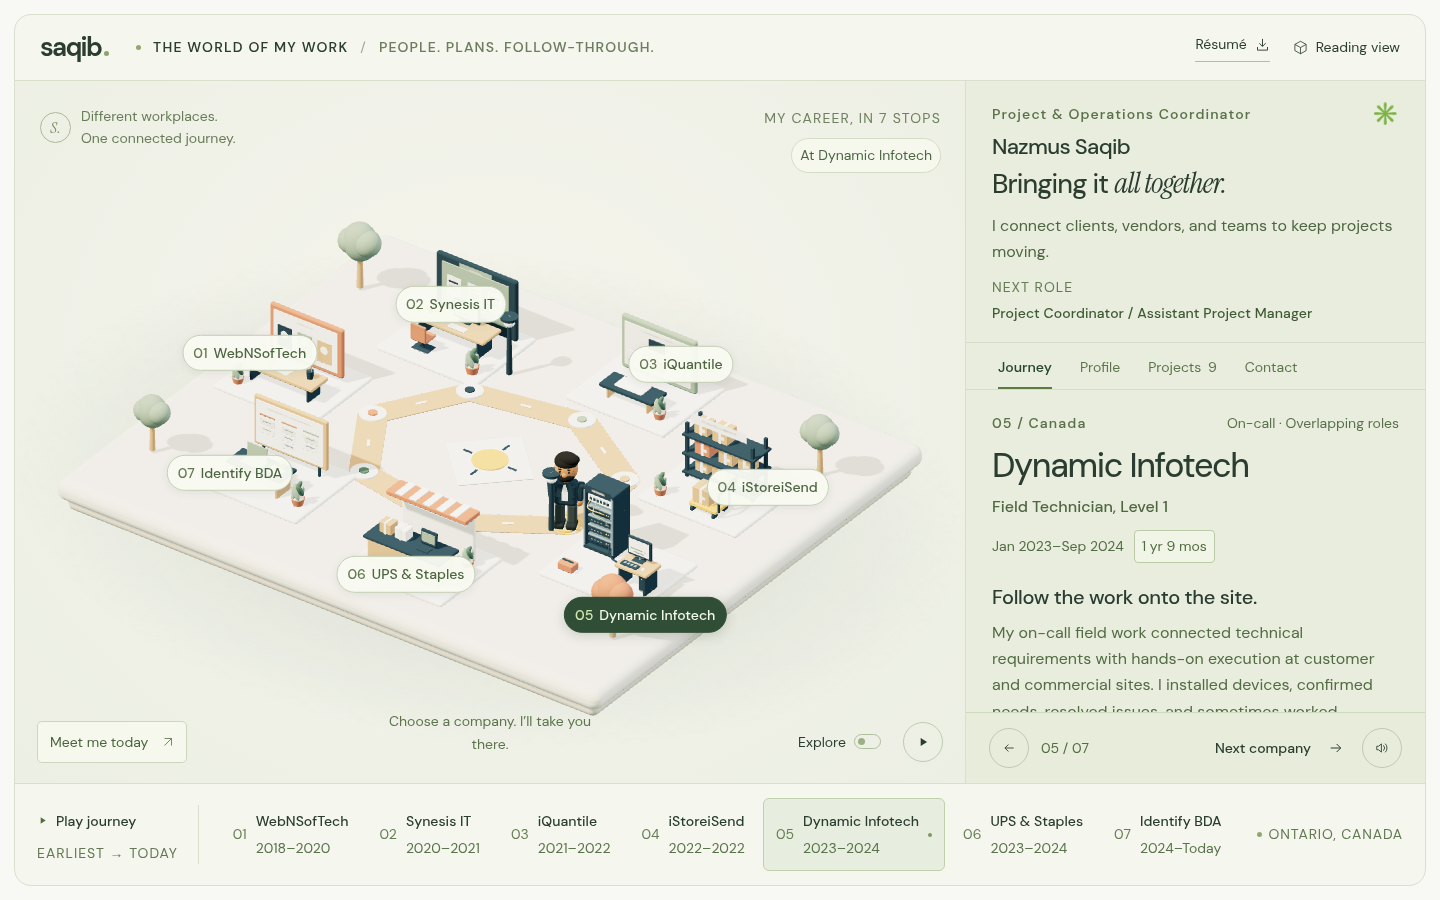
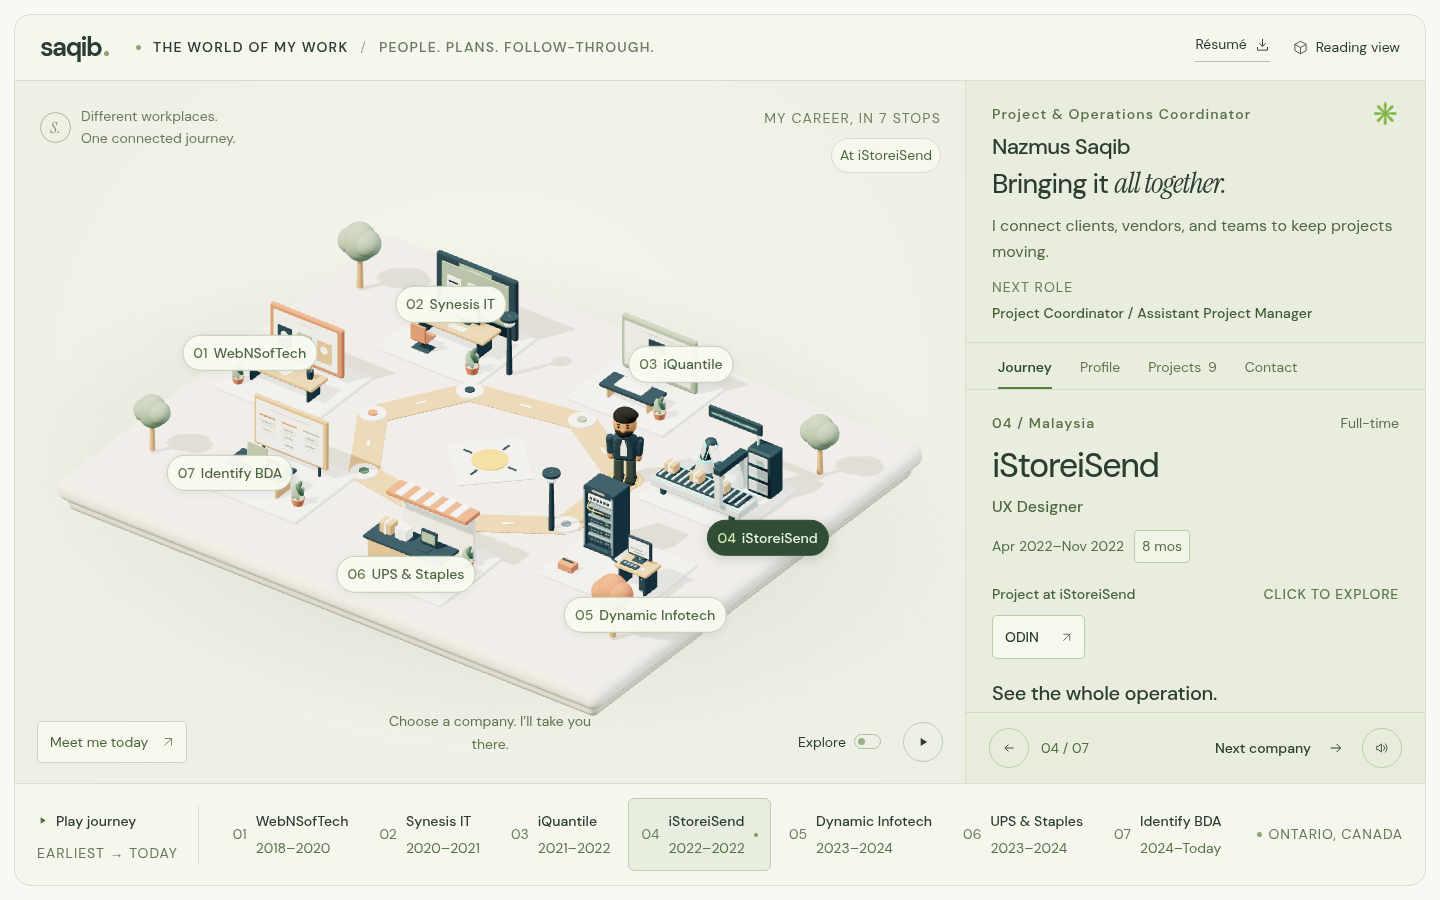
Redesign iStoreiSend as an automated fulfillment scene

diff --git a/src/world.js b/src/world.js
@@ -163,8 +163,8 @@ export function createWorld({ container, onSelect = () => {}, onReady = () => {}
       company: station.company || station.label || defaultStations[index]?.company,
       position: [x * 5.05, 0, z * 4.05],
       stop: [x * 3.0, 0, z * 2.4],
-      // Keep the network workplace label below its equipment display.
-      labelAnchor: new THREE.Vector3(x * 6.15, index === 4 ? -0.35 : 0.5, z * 5.0),
+      // Keep the automated fulfillment and network labels below their equipment displays.
+      labelAnchor: new THREE.Vector3(x * 6.15, index === 3 ? -0.75 : index === 4 ? -0.35 : 0.5, z * 5.0),
       color: ['terracotta', 'navy', 'sage', 'wood', 'gray', 'terracotta', 'moss'][index % 7],
     };
   });
@@ -241,28 +241,94 @@ export function createWorld({ container, onSelect = () => {}, onReady = () => {}
     box(chair, 0.55, 0.05, 0.4, 0, 0.29, 0, 'navy');
   }
 
-  // 02 — the fulfillment space: a rack, real little parcels and a loading cart.
+  // 04 — an illustrative automated fulfillment cell: robot, conveyor and scanner.
+  let fulfillmentTime = 0;
+  let updateFulfillment = () => {};
   {
     const group = stationGroups[3] || stationGroups[0];
-    [-1.1, 1.05].forEach(x => [-0.76, -0.16].forEach(z => box(group, 0.09, 1.72, 0.09, x, 1.15, z, 'navy', 0.015)));
-    [0.46, 1.04, 1.64].forEach(y => box(group, 2.35, 0.07, 0.83, -0.02, y, -0.46, 'navy', 0.015));
-    const parcel = (x, y, z, size = 0.42, shade = 'wood') => {
-      box(group, size, size * 0.83, size * 0.92, x, y, z, shade, 0.025);
-      box(group, 0.09, size * 0.83 + 0.004, size * 0.92 + 0.006, x, y, z, 'paper', 0.005);
-      box(group, 0.18, 0.1, 0.01, x + 0.07, y - 0.02, z + size * 0.46 + 0.007, 'chalk', 0.003);
+    group.name = 'automated-fulfillment-cell';
+    const alloy = material(0xe2eae8, { metalness: 0.32, roughness: 0.42 });
+    const cyan = material(0x70d9d0, { emissive: 0x41bdb5, emissiveIntensity: 0.45, roughness: 0.35 });
+    const graphite = material(0x304b55, { metalness: 0.35, roughness: 0.48 });
+    const parcel = (parent, x, y, z, size = 0.34) => {
+      const item = new THREE.Group(); item.position.set(x, y, z); parent.add(item);
+      box(item, size, size * 0.8, size * 0.86, 0, 0, 0, 'wood', 0.025);
+      box(item, 0.065, size * 0.8 + 0.006, size * 0.86 + 0.006, 0, 0, 0, 'paper', 0.005);
+      box(item, 0.13, 0.075, 0.012, 0.055, -0.015, size * 0.43 + 0.01, 'chalk', 0.003);
+      return item;
     };
-    parcel(-0.7, 0.68, -0.44); parcel(-0.09, 0.71, -0.44, 0.5); parcel(0.65, 0.66, -0.44, 0.37);
-    parcel(-0.65, 1.29, -0.44, 0.5, 'terracotta'); parcel(0.1, 1.27, -0.44, 0.47); parcel(0.71, 1.27, -0.44, 0.43);
-    parcel(-0.72, 1.88, -0.44, 0.44); parcel(-0.08, 1.9, -0.44, 0.5);
-    sign(group, 'FULFILLMENT', 1.8, 0.3, -0.02, 2.24, -0.12, '#f5f1e5', '#263d48');
-    box(group, 0.9, 0.12, 0.65, 0.32, 0.49, 0.81, 'amber', 0.04);
-    [-0.03, 0.67].forEach(x => [0.58, 1.05].forEach(z => {
-      const wheel = cylinder(group, 0.1, 0.1, 0.07, x, 0.35, z, 'navy', 16); wheel.rotation.z = Math.PI / 2;
-    }));
-    lineBetween(group, [0.8, 0.5, 0.56], [0.8, 1.05, 0.56], 0.035, 'navy');
-    lineBetween(group, [0.8, 0.5, 1.04], [0.8, 1.05, 1.04], 0.035, 'navy');
-    lineBetween(group, [0.8, 1.05, 0.56], [0.8, 1.05, 1.04], 0.04, 'navy');
-    parcel(0.22, 0.79, 0.81, 0.55); plant(group, -1.18, 0.95, 0.8);
+
+    // Low enclosed conveyor with visible rollers and illuminated edge rails.
+    const conveyor = new THREE.Group(); conveyor.name = 'automatic-parcel-conveyor'; group.add(conveyor);
+    box(conveyor, 2.95, 0.28, 0.9, 0, 0.64, 0.6, alloy, 0.07);
+    box(conveyor, 2.72, 0.055, 0.66, 0, 0.81, 0.6, graphite, 0.02);
+    [-1.12, 1.12].forEach(x => [-0.3, 0.3].forEach(z => box(conveyor, 0.13, 0.25, 0.13, x, 0.41, 0.6 + z, 'navy', 0.02)));
+    [-0.42, 0.42].forEach(z => box(conveyor, 2.8, 0.045, 0.035, 0, 0.77, 0.6 + z, cyan, 0.012));
+    for (let i = 0; i < 13; i++) {
+      const roller = cylinder(conveyor, 0.035, 0.035, 0.62, -1.25 + i * 0.208, 0.848, 0.6, alloy, 12);
+      roller.rotation.x = Math.PI / 2;
+    }
+    const packages = [parcel(conveyor, -1, 1.025, 0.6), parcel(conveyor, 0, 1.025, 0.6), parcel(conveyor, 1, 1.025, 0.6)];
+
+    // A scanning portal reads each parcel before automated dispatch.
+    const scanner = new THREE.Group(); scanner.name = 'automated-dispatch-scanner'; scanner.position.x = 0.87; group.add(scanner);
+    [0.06, 1.14].forEach(z => {
+      box(scanner, 0.2, 1.03, 0.17, 0, 1.32, z, alloy, 0.04);
+      box(scanner, 0.035, 0.75, 0.035, -0.111, 1.34, z, cyan, 0.008);
+    });
+    box(scanner, 0.25, 0.21, 1.25, 0, 1.89, 0.6, graphite, 0.04);
+    box(scanner, 0.05, 0.035, 1.02, -0.139, 1.86, 0.6, cyan, 0.009);
+    const scanMaterial = new THREE.MeshBasicMaterial({ color: 0x73e4dc, transparent: true, opacity: 0.13, side: THREE.DoubleSide, depthWrite: false });
+    const scan = new THREE.Mesh(new THREE.PlaneGeometry(1.02, 0.89), scanMaterial);
+    scan.rotation.y = Math.PI / 2; scan.position.set(0, 1.34, 0.6); scanner.add(scan);
+
+    // Articulated pick-and-place robot, with contrasting joints and a two-finger gripper.
+    const robot = new THREE.Group(); robot.name = 'robotic-parcel-handler'; robot.position.set(-0.78, 0.3, -0.58); group.add(robot);
+    box(robot, 0.72, 0.14, 0.72, 0, 0.08, 0, graphite, 0.06);
+    cylinder(robot, 0.24, 0.3, 0.31, 0, 0.29, 0, alloy);
+    cylinder(robot, 0.255, 0.255, 0.055, 0, 0.47, 0, cyan);
+    const turret = new THREE.Group(); turret.position.y = 0.5; robot.add(turret);
+    const shoulder = new THREE.Group(); turret.add(shoulder);
+    sphere(shoulder, 0.17, 0, 0, 0, graphite);
+    box(shoulder, 0.29, 0.69, 0.27, 0, 0.36, 0, graphite, 0.07);
+    box(shoulder, 0.21, 0.48, 0.035, 0, 0.36, 0.151, alloy, 0.02);
+    box(shoulder, 0.045, 0.45, 0.025, 0.135, 0.36, 0.1, cyan, 0.012);
+    const elbow = new THREE.Group(); elbow.position.y = 0.72; shoulder.add(elbow);
+    sphere(elbow, 0.18, 0, 0, 0, graphite);
+    cylinder(elbow, 0.095, 0.095, 0.385, 0, 0, 0, cyan, 24).rotation.x = Math.PI / 2;
+    box(elbow, 0.25, 0.6, 0.23, 0, 0.32, 0, alloy, 0.055);
+    const wrist = new THREE.Group(); wrist.position.y = 0.64; elbow.add(wrist);
+    sphere(wrist, 0.12, 0, 0, 0, graphite);
+    box(wrist, 0.36, 0.1, 0.18, 0, -0.1, 0, cyan, 0.025);
+    [-0.145, 0.145].forEach(x => box(wrist, 0.065, 0.22, 0.15, x, -0.23, 0, graphite, 0.015));
+    const heldParcel = parcel(wrist, 0, -0.32, 0, 0.29);
+
+    // Compact automated storage bays and a dispatch display complete the cell.
+    box(group, 0.8, 1.4, 0.59, 1.02, 1.01, -0.76, graphite, 0.08);
+    [0.6, 1.02, 1.44].forEach(y => {
+      box(group, 0.62, 0.32, 0.045, 1.02, y, -0.445, alloy, 0.025);
+      box(group, 0.42, 0.025, 0.02, 1.02, y - 0.09, -0.413, cyan, 0.006);
+    });
+    sign(group, 'AUTO FULFILLMENT', 1.55, 0.25, 0.08, 2.21, -0.66, '#263d48', '#a1ede2');
+    box(group, 1.74, 0.35, 0.1, 0.08, 2.21, -0.73, graphite, 0.04);
+    cylinder(group, 0.035, 0.035, 0.39, 0.8, 1.87, -0.75, alloy, 12);
+
+    updateFulfillment = time => {
+      packages.forEach((item, index) => {
+        const progress = (time * 0.13 + index / packages.length + 0.08) % 1;
+        item.position.x = -1.25 + progress * 2.5;
+        const edgeScale = Math.min(1, progress * 12, (1 - progress) * 12);
+        item.scale.setScalar(edgeScale);
+      });
+      const cycle = time * 0.7;
+      turret.rotation.y = -0.58 + Math.sin(cycle) * 0.43;
+      shoulder.rotation.z = -0.58 + Math.sin(cycle + 0.5) * 0.15;
+      elbow.rotation.z = -1.52 + Math.sin(cycle - 0.3) * 0.22;
+      wrist.rotation.z = -shoulder.rotation.z - elbow.rotation.z;
+      heldParcel.visible = Math.sin(cycle) > -0.4;
+      scanMaterial.opacity = 0.1 + (Math.sin(time * 2.4) + 1) * 0.035;
+    };
+    updateFulfillment(0);
   }
 
   // 01 — graphic design: the foundation in visual communication.
@@ -498,7 +564,9 @@ export function createWorld({ container, onSelect = () => {}, onReady = () => {}
       const marginX = Math.min(8, size.width / 2), marginY = Math.min(8, size.height / 2);
       const halfWidth = Math.min(label.offsetWidth / 2, size.width / 2 - marginX);
       const halfHeight = Math.min(label.offsetHeight / 2, size.height / 2 - marginY);
-      const left = THREE.MathUtils.clamp((projected.x * 0.5 + 0.5) * size.width, halfWidth + marginX, size.width - halfWidth - marginX);
+      const left = narrow && index === 3
+        ? halfWidth + marginX
+        : THREE.MathUtils.clamp((projected.x * 0.5 + 0.5) * size.width, halfWidth + marginX, size.width - halfWidth - marginX);
       // Reserve the bottom control row when the scene is compact.
       const bottomMargin = narrow ? Math.min(64, size.height / 2) : marginY;
       const top = THREE.MathUtils.clamp((-projected.y * 0.5 + 0.5) * size.height, halfHeight + marginY, size.height - halfHeight - bottomMargin);
@@ -524,9 +592,11 @@ export function createWorld({ container, onSelect = () => {}, onReady = () => {}
     const controls = exploring
       ? 'Explore Saqib’s career world. Move using the arrow keys or W, A, S and D.'
       : 'A three-dimensional world of Saqib’s career. Choose a company button to move between workplaces.';
-    const workplace = activeIndex === 4
-      ? ' The Dynamic Infotech workplace contains a desktop computer setup, a cabled server rack, and a service kit.'
-      : '';
+    const workplace = activeIndex === 3
+      ? ' The iStoreiSend illustration shows automated fulfillment with a robotic parcel handler, moving conveyor, illuminated scanner, and automated storage.'
+      : activeIndex === 4
+        ? ' The Dynamic Infotech workplace contains a desktop computer setup, a cabled server rack, and a service kit.'
+        : '';
     canvas.setAttribute('aria-label', controls + workplace);
   }
   function select(index) {
@@ -681,6 +751,8 @@ export function createWorld({ container, onSelect = () => {}, onReady = () => {}
         marker.scale.set(scale, 1, scale);
       });
     }
+    fulfillmentTime += delta;
+    updateFulfillment(fulfillmentTime);
     checkStation(); renderOnce();
   }
   resize(); select(0); animate(); onReady();

diff --git a/README.md b/README.md
@@ -54,7 +54,7 @@ For a local Pages-path regression check, serve the build with `npm run preview -
 
 - `src/content.js`: employer chronology, professional summary, tenure formatting, project stories, skills, education, and credentials. Ended roles count the supplied calendar months; current-role tenure uses elapsed months in the current Toronto month. Dynamic Infotech and UPS/Staples are explicitly identified as overlapping roles.
 - `src/main.js`: interface and interactions; public contact email.
-- `src/world.js`: locally generated character and environment; no external model downloads. The Dynamic Infotech workplace contains a desktop computer, cabled server rack, and service kit.
+- `src/world.js`: locally generated character and environment; no external model downloads. iStoreiSend is illustrated as an automated fulfillment cell with robotic handling, parcel conveyors, scanning, and automated storage. Machine movement follows the scene’s pause and reduced-motion settings. The Dynamic Infotech workplace contains a desktop computer, cabled server rack, and service kit.
 - `src/styles.css`: responsive interface styling, with 16px body text and labels and controls of at least 14px. Smaller screens use compact profile headers and internally scrolling panels to preserve readable type inside the viewport.
 - `src/project-view.js` and `src/project-view.css`: reusable project previews and case-study presentation inside the viewport.
 - `public/projects/`: optimized previews from supplied project files. Original career records, project source files, and confidential documents are **not** public assets.
